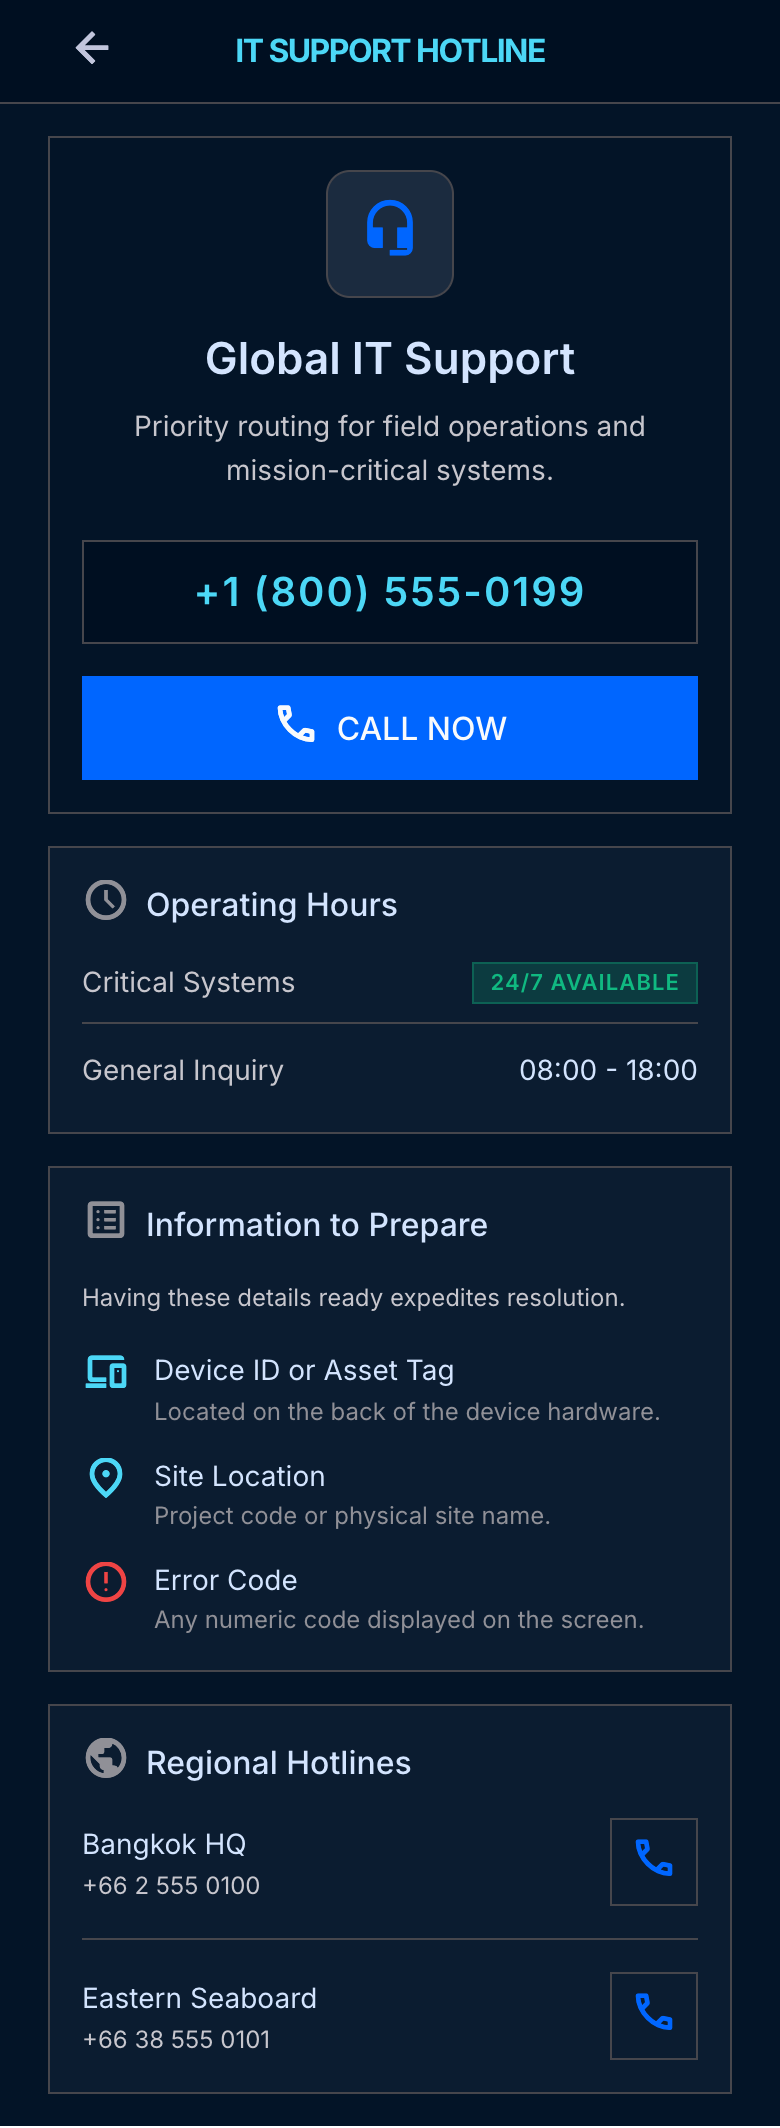
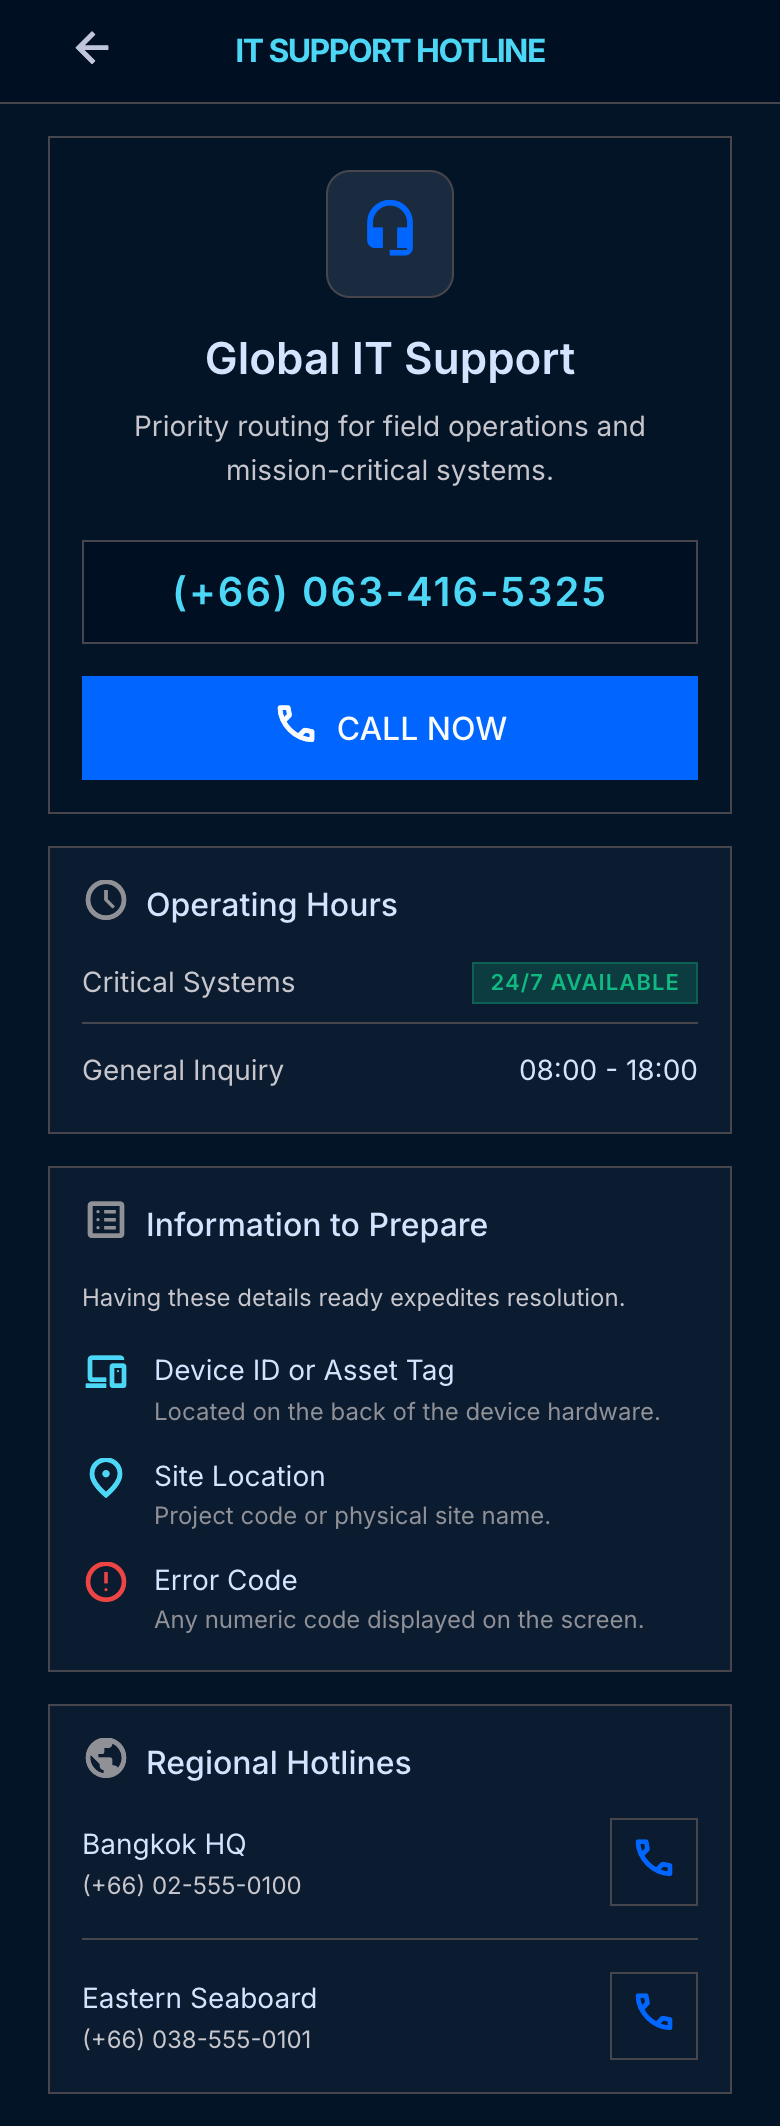
update: mockup ui

Changed region(s): [[0.2769, 0.2481, 0.7692, 0.3102], [0.1231, 0.9305, 0.4, 0.9615], [0.1231, 0.8684, 0.3692, 0.8994]]

diff --git a/mockup/mobile/01_authen/05_get_help/02_hotline_details/code.html b/mockup/mobile/01_authen/05_get_help/02_hotline_details/code.html
@@ -1,4 +1,4 @@
-<!DOCTYPE html><html class="dark" lang="en"><head>
+<!DOCTYPE html><html class="dark" lang="en" style=""><head>
 <meta charset="utf-8">
 <meta content="width=device-width, initial-scale=1.0" name="viewport">
 <title>IT Support Hotline</title>
@@ -135,7 +135,7 @@
 <p class="text-body-md font-body-md text-on-surface-variant">Priority routing for field operations and mission-critical systems.</p>
 <div class="mt-4 w-full">
 <div class="bg-surface-container-lowest border border-outline-variant py-3 px-4 flex justify-center items-center rounded-DEFAULT mb-4">
-<span class="text-headline-h2 font-headline-h2 text-tertiary tracking-wider">+1 (800) 555-0199</span>
+<span class="text-headline-h2 font-headline-h2 text-tertiary tracking-wider">(+66) 063-416-5325</span>
 </div>
 <button class="w-full h-touch-target-optimum bg-mobile-primary text-concrete-white rounded-DEFAULT font-headline-h3 text-headline-h3 flex items-center justify-center gap-2 hover:bg-secondary-container transition-colors active:scale-95 duration-100">
 <span class="material-symbols-outlined">call</span>
@@ -201,7 +201,7 @@
 <div class="flex justify-between items-center">
 <div>
 <div class="text-body-md font-body-md text-on-surface">Bangkok HQ</div>
-<div class="text-body-sm font-body-sm text-on-surface-variant">+66 2 555 0100</div>
+<div class="text-body-sm font-body-sm text-on-surface-variant">(+66) 02-555-0100</div>
 </div>
 <button class="w-[44px] h-[44px] flex items-center justify-center border border-outline-variant rounded-DEFAULT text-mobile-primary hover:bg-surface-variant">
 <span class="material-symbols-outlined">call</span>
@@ -210,7 +210,7 @@
 <div class="flex justify-between items-center border-t border-outline-variant pt-4">
 <div>
 <div class="text-body-md font-body-md text-on-surface">Eastern Seaboard</div>
-<div class="text-body-sm font-body-sm text-on-surface-variant">+66 38 555 0101</div>
+<div class="text-body-sm font-body-sm text-on-surface-variant">(+66) 038-555-0101</div>
 </div>
 <button class="w-[44px] h-[44px] flex items-center justify-center border border-outline-variant rounded-DEFAULT text-mobile-primary hover:bg-surface-variant">
 <span class="material-symbols-outlined">call</span>
@@ -221,6 +221,8 @@
 <!-- System Status Action -->
 
 </main>
+
+
 
 
 </body></html>
